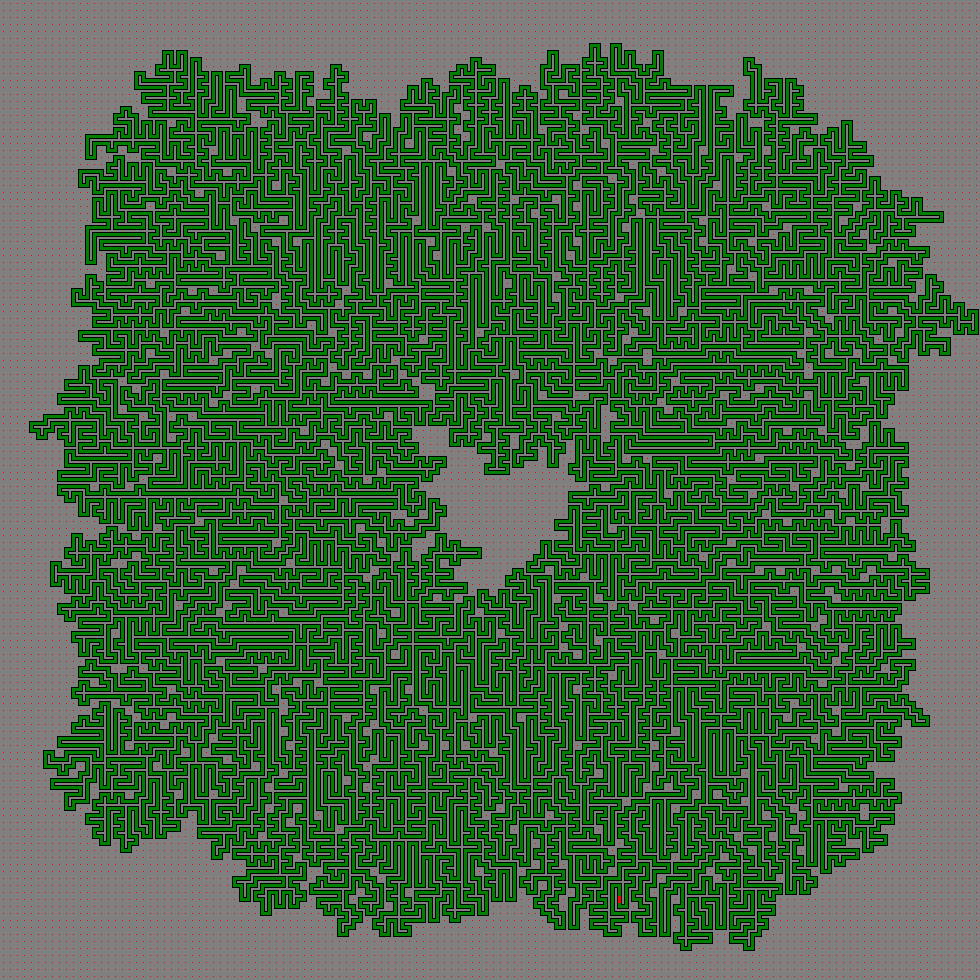
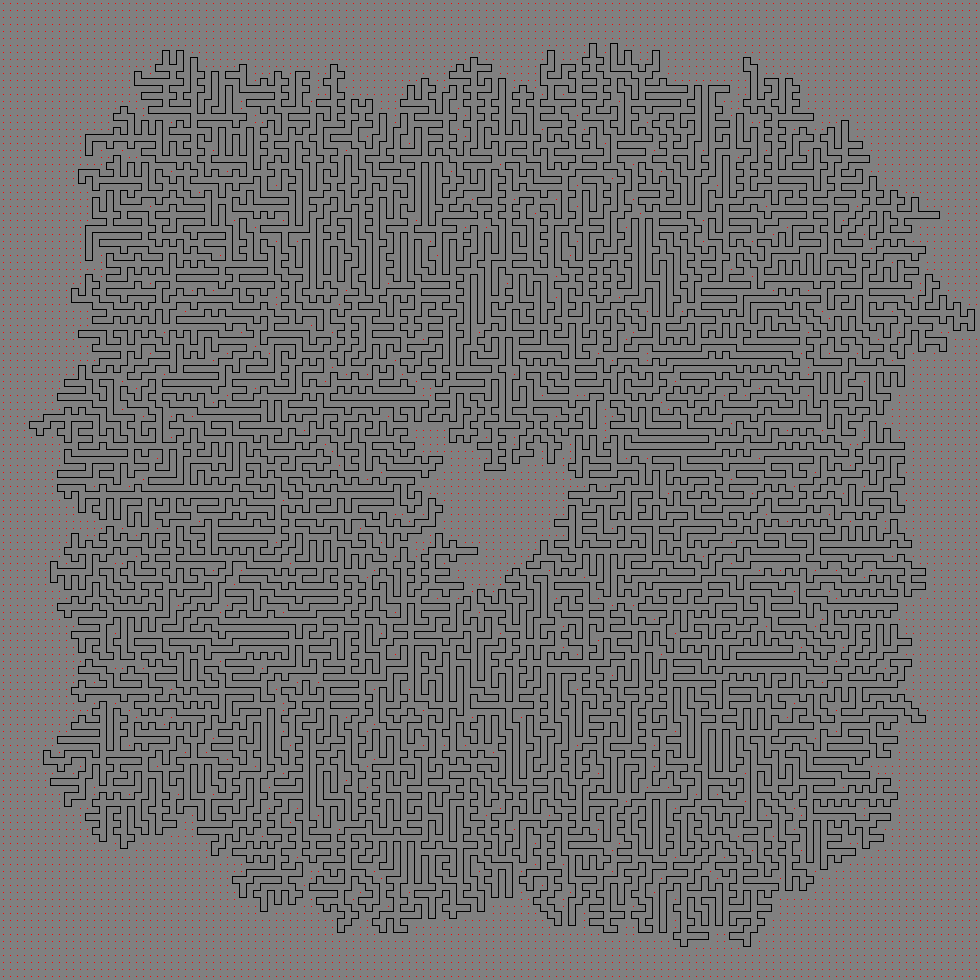
day 10 final

diff --git a/Day10/py_day10_part2.py b/Day10/py_day10_part2.py
@@ -20,7 +20,7 @@ with open('Day10\data_day10.txt') as f:
 example = [
     '.....',
     '.F-7.',
-    '.|.|.',
+    '.|S|.',
     '.L-J.',
     '.....'
 ]
@@ -45,69 +45,27 @@ class Node:
 
         self.drawPipe()
 
-    def drawHorLine(self, canvas, x, y, fill):
+    def drawHorLine(self, canvas, x, y):
         canvas.create_line(7*x+2, 7*y+3, 7*x+9, 7*y+3)
-        canvas.create_line(7*x+2, 7*y+7, 7*x+9, 7*y+7)
-        if fill:
-            canvas.create_line(7*x+2, 7*y+4, 7*x+9, 7*y+4, fill=fill)
-            canvas.create_line(7*x+2, 7*y+5, 7*x+9, 7*y+5, fill=fill)
-            canvas.create_line(7*x+2, 7*y+6, 7*x+9, 7*y+6, fill=fill)
 
-    def drawVertLine(self, canvas, x, y, fill):
+    def drawVertLine(self, canvas, x, y):
         canvas.create_line(7*x+3, 7*y+2, 7*x+3, 7*y+9)
-        canvas.create_line(7*x+7, 7*y+2, 7*x+7, 7*y+9)
-        if fill:
-            canvas.create_line(7*x+4, 7*y+2, 7*x+4, 7*y+9, fill=fill)
-            canvas.create_line(7*x+5, 7*y+2, 7*x+5, 7*y+9, fill=fill)
-            canvas.create_line(7*x+6, 7*y+2, 7*x+6, 7*y+9, fill=fill)
 
-    def drawNELine(self, canvas, x, y, fill):
-        canvas.create_line(7*x+3, 7*y+2, 7*x+3, 7*y+8)
-        canvas.create_line(7*x+3, 7*y+7, 7*x+9, 7*y+7)
-        canvas.create_line(7*x+7, 7*y+2, 7*x+7, 7*y+4)
-        canvas.create_line(7*x+7, 7*y+3, 7*x+9, 7*y+3)
-        if fill:
-            canvas.create_line(7*x+4, 7*y+4, 7*x+9, 7*y+4, fill=fill)
-            canvas.create_line(7*x+4, 7*y+5, 7*x+9, 7*y+5, fill=fill)
-            canvas.create_line(7*x+4, 7*y+6, 7*x+9, 7*y+6, fill=fill)
-            canvas.create_line(7*x+4, 7*y+2, 7*x+7, 7*y+2, fill=fill)
-            canvas.create_line(7*x+4, 7*y+3, 7*x+7, 7*y+3, fill=fill)
+    def drawNELine(self, canvas, x, y):
+        canvas.create_line(7*x+3, 7*y+3, 7*x+9, 7*y+3)
+        canvas.create_line(7*x+3, 7*y+2, 7*x+3, 7*y+4)
 
-    def drawSELine(self, canvas, x, y, fill):
+    def drawSELine(self, canvas, x, y):
         canvas.create_line(7*x+3, 7*y+3, 7*x+9, 7*y+3)
         canvas.create_line(7*x+3, 7*y+3, 7*x+3, 7*y+9)
-        canvas.create_line(7*x+7, 7*y+7, 7*x+9, 7*y+7)
-        canvas.create_line(7*x+7, 7*y+7, 7*x+7, 7*y+9)
-        if fill:
-            canvas.create_line(7*x+4, 7*y+4, 7*x+9, 7*y+4, fill=fill)
-            canvas.create_line(7*x+4, 7*y+5, 7*x+9, 7*y+5, fill=fill)
-            canvas.create_line(7*x+4, 7*y+6, 7*x+9, 7*y+6, fill=fill)
-            canvas.create_line(7*x+4, 7*y+7, 7*x+7, 7*y+7, fill=fill)
-            canvas.create_line(7*x+4, 7*y+8, 7*x+7, 7*y+8, fill=fill)
 
-    def drawNWLine(self, canvas, x, y, fill):
+    def drawNWLine(self, canvas, x, y):
         canvas.create_line(7*x+2, 7*y+3, 7*x+4, 7*y+3)
         canvas.create_line(7*x+3, 7*y+2, 7*x+3, 7*y+4)
-        canvas.create_line(7*x+7, 7*y+2, 7*x+7, 7*y+7)
-        canvas.create_line(7*x+2, 7*y+7, 7*x+8, 7*y+7)
-        if fill:
-            canvas.create_line(7*x+2, 7*y+4, 7*x+7, 7*y+4, fill=fill)
-            canvas.create_line(7*x+2, 7*y+5, 7*x+7, 7*y+5, fill=fill)
-            canvas.create_line(7*x+2, 7*y+6, 7*x+7, 7*y+6, fill=fill)
-            canvas.create_line(7*x+4, 7*y+2, 7*x+7, 7*y+2, fill=fill)
-            canvas.create_line(7*x+4, 7*y+3, 7*x+7, 7*y+3, fill=fill)
 
-    def drawSWLine(self, canvas, x, y, fill):
-        canvas.create_line(7*x+2, 7*y+3, 7*x+7, 7*y+3)
-        canvas.create_line(7*x+7, 7*y+3, 7*x+7, 7*y+9)
-        canvas.create_line(7*x+2, 7*y+7, 7*x+4, 7*y+7)
-        canvas.create_line(7*x+3, 7*y+7, 7*x+3, 7*y+9)
-        if fill:
-            canvas.create_line(7*x+2, 7*y+4, 7*x+7, 7*y+4, fill=fill)
-            canvas.create_line(7*x+2, 7*y+5, 7*x+7, 7*y+5, fill=fill)
-            canvas.create_line(7*x+2, 7*y+6, 7*x+7, 7*y+6, fill=fill)
-            canvas.create_line(7*x+4, 7*y+7, 7*x+7, 7*y+7, fill=fill)
-            canvas.create_line(7*x+4, 7*y+8, 7*x+7, 7*y+8, fill=fill)
+    def drawSWLine(self, canvas, x, y):
+        canvas.create_line(7*x+2, 7*y+3, 7*x+4, 7*y+3)
+        canvas.create_line(7*x+3, 7*y+3, 7*x+3, 7*y+9)
 
     def drawBlank(self, canvas, x, y, fill):
         canvas.create_line(7*x+2, 7*y+2, 7*x+9, 7*y+2, fill=fill)
@@ -123,17 +81,17 @@ class Node:
     def drawPipe(self):
         match self.direction:
             case '|':
-                self.drawVertLine(my_canvas, self.x, self.y, self.fill)
+                self.drawVertLine(my_canvas, self.x, self.y)
             case '-':
-                self.drawHorLine(my_canvas, self.x, self.y, self.fill)
+                self.drawHorLine(my_canvas, self.x, self.y)
             case 'L':
-                self.drawNELine(my_canvas, self.x, self.y, self.fill)
+                self.drawNELine(my_canvas, self.x, self.y)
             case 'J':
-                self.drawNWLine(my_canvas, self.x, self.y, self.fill)
+                self.drawNWLine(my_canvas, self.x, self.y)
             case '7':
-                self.drawSWLine(my_canvas, self.x, self.y, self.fill)
+                self.drawSWLine(my_canvas, self.x, self.y)
             case 'F':
-                self.drawSELine(my_canvas, self.x, self.y, self.fill)
+                self.drawSELine(my_canvas, self.x, self.y)
 
     def fillPipe(self, color):
         self.fill = color
@@ -340,11 +298,17 @@ def raycastOutDiag(x, y):
 def isRaycastOdd(raycast):
     isOdd = [False, False, False, False]
 
-    for i, cast in enumerate(raycast):
-        half = cast / 2
-        if (cast != 2) and (half % 2 != 0):
-            isOdd[i] = True
+    if 0 in raycast:
+        return False
 
+    for i, cast in enumerate(raycast):
+        if cast == 1:
+            isOdd[i] = True
+        elif cast % 2 != 0:
+            isOdd[i] = True
+        else:
+            isOdd[i] = False
+        
     return all(isOdd)
 
 
@@ -352,7 +316,7 @@ def isRaycastOdd(raycast):
 for y, node_line in enumerate(nodes):
     for x, cell in enumerate(node_line):
         if not cell.visited:
-            raycast = raycastOutDiag(x, y)
+            raycast = raycastOut(x, y)
             print(f'Pixel: ({x},{y}) -> Raycast: {raycast}')
             if isRaycastOdd(raycast):
                 print('Inside Cell Found')
